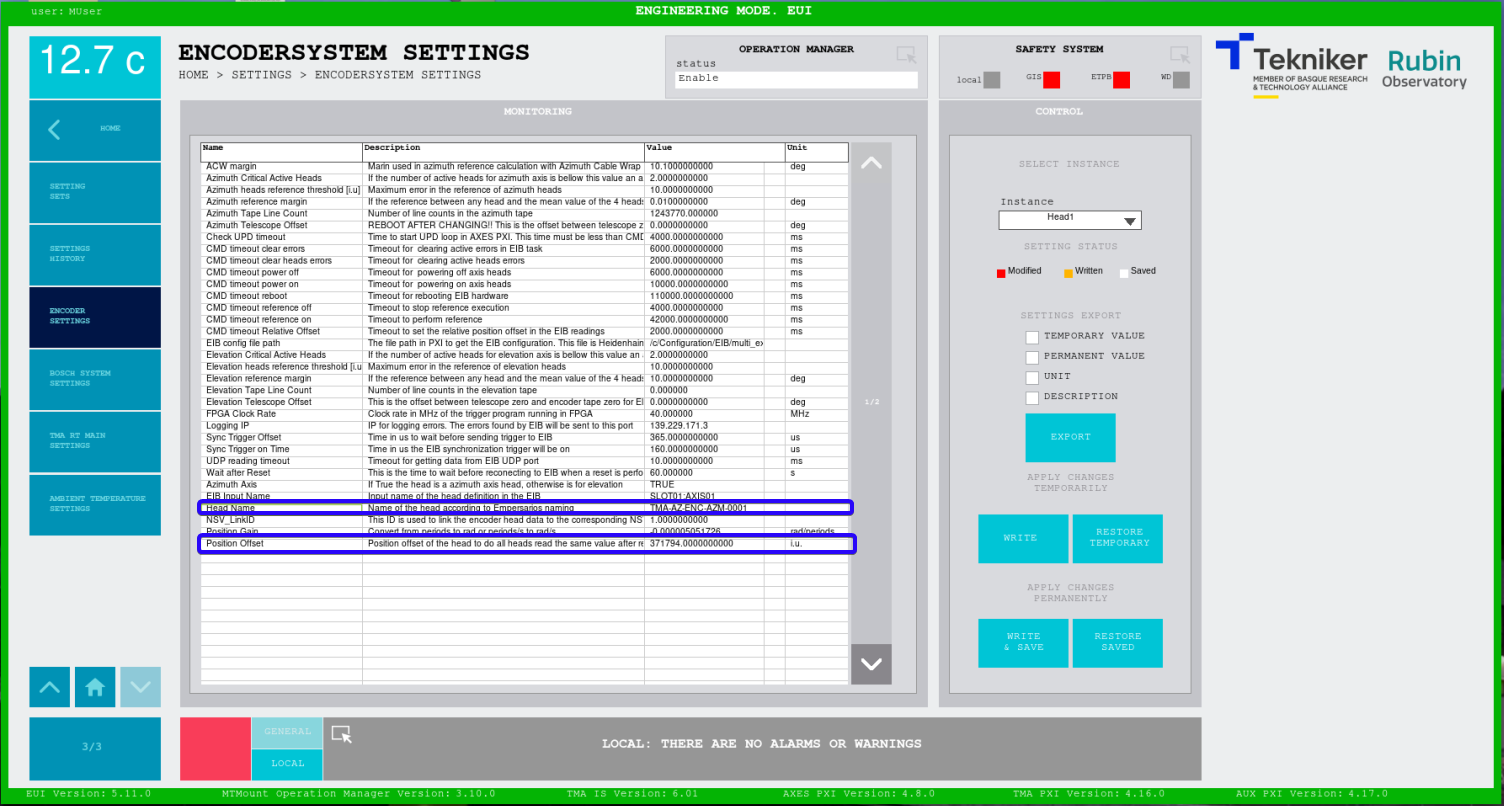
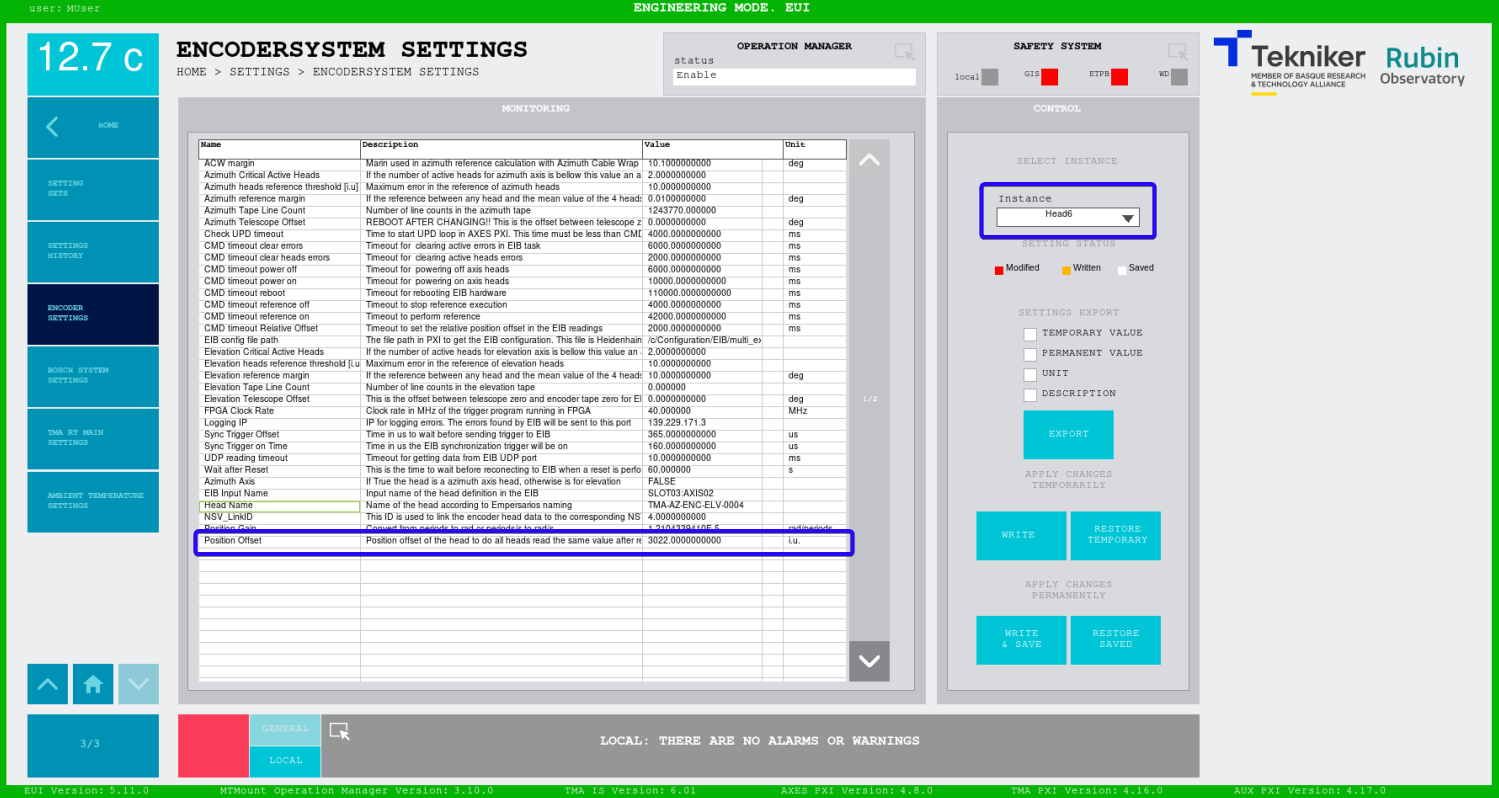
Complete the documentation

diff --git a/README.md b/README.md
@@ -44,10 +44,17 @@ Running the application the window shown in next figure appears. This windows al
 
 ![Head Reference offset calculation tool](Figures/ReferenceOffsetToolMainWindow.png)
 
+In this document only the use of this document with the EUI is explained, and so that some elements of the tool windows are not mentioned.
+
+> **IMPORTANT**
+> The procedures in this document are only valid for change/modify one or two heads per axis
+>
+> If more heads must be changed/modified use this procedure several times or contact to Tekniker
+
 ### Azimuth heads offsets
 
-> **NOTE**
-> THIS PROCEDURE IS VALID IF THE CHANGE HEAD POSITION IS SMALL. THIS IS, THE HEAD SUPPORT IS NOT MODIFIED OR ITS POSITION IS NOT MODIFIED.
+> **WARNING**
+> THIS PROCEDURE IS VALID IF THE HEAD POSITION CHANGE IS SMALLER THAN 0.5 DEG. THIS IS, THE HEAD SUPPORT IS NOT MODIFIED OR ITS POSITION IS NOT MODIFIED.
 >
 
 When a head from azimuth axis is changed or relocated this procedure should be fulfilled. This procedure starts after the head is validated in the azimuth full range.
@@ -68,22 +75,78 @@ When a head from azimuth axis is changed or relocated this procedure should be f
 8. Copy the "read reference data" form the ENCODER SYSTEM window to the "Slave Reference"  in the tool for each head
 ![Azimuth reference data in the EUI](Figures/AzimuthReferenceEUI.png)
 ![Copy reference data in the tool](Figures/AzimuthReferenceTool.png)
-9. Select the Head 1 as master head. This makes that all the heads give an absolute position of 0 deg when the head 1 is located in the azimuth tape junction. In this situation the value of the "Correction Offset [i.u.]" is 0 for the Head 1 while it have a different value the other 3 heads.
+9. Power off the azimuth axis
+10. Select the Head 1 as master head. This makes that all heads give an absolute position of 0 deg when the head 1 is located in the azimuth tape junction. In this situation the value of the "Correction Offset [i.u.]" is 0 for the Head 1 while it have a different value the other 3 heads.
 ![Select master head](Figures/AzimuthSelectHead1AsReference.png)
-10. The desired absolute position is the one calculated in step 4. So insert the "Slave Absolute Corrected degrees" - step 4 calculated value in the "Additional offset"
-![Insert Aditional offset in the tool](Figures/AzimuthAditionalOffset.png)
-11. The "Correction offset [i.u.]" are the values that must be updated in the ENCODER SETTINGS window in the "Position Offset" setting. The name of the encoder head is located in the setting "Head Name". The azimuth encoders are named aas TAM-AZ-ENC-AZM and then the head number. So the Head 1 is the TMA-AZ-ENC-AZM-0001, the head 2 is the TMA-AZ-ENC-AZM-0002 and so on.
+11. The desired absolute position is the one calculated in step 4. So insert the "Slave Absolute Corrected degrees" - step 4 calculated value in the "Additional offset"
+![Insert Additional offset in the tool](Figures/AzimuthAditionalOffset.png)
+1.  The "Correction offset [i.u.]" are the values that must be updated in the ENCODER SETTINGS window in the "Position Offset" setting. The matching between head and head instance in the ENCODER SETTINGS is shown in next list. 
+    1.  Head 1 --> Instance Head1
+    2.  Head 2 --> Instance Head3
+    3.  Head 3 --> Instance Head5
+    4.  Head 4 --> Instance Head7
 ![Alt text](Figures/EncoderHeadsSettins.png)
-
+1. Power on azimuth axis and home axis. Check that the changes take effect and the system works properly. All the heads should read a similar absolute position (In previous test a difference bellow XXX in all range is recorded). The differences in the absolute position of each head varies along the telescope range, so the only position where the absolute position should be equal (the difference will be bellow 0.0003 deg) for all heads is in the position where the correction was applied.
+2. A star calibration is recommended to correct the Telescope offset
 
 ### Elevation heads offsets
 
+> **WARNING**
+> IF THE HEAD POSITION IS CHANGED MORE THAN 10 DEG SOME ADDITIONAL STEPS MAY BE PERFORMED.
+>
+> The software limits should be disabled if the change is big, because the absolute position calculated without when doing the home could be outside the allowed
+
+1. Power on the elevation axis.
+2. It is recommended to move the elevation axis to 45 degrees. This allow to have more "distance" to software limits.
+3. Home elevation axis
+4. open the ENCODER SYSTEM window in the EUI
+![Encoder Data From EUI](Figures/EncoderDataFromEUI.png)
+1. Take the absolute position of the heads that were **not modified** and calculate the mean value. Note down this value since this will be the absolute value we want to set.
+![Elevation Absolute Position](Figures/ElevationAbsolutePosition.png)
+1. Open the Head Reference Calculation Tool for the Elevation axis
+![Azimuth Head Reference offset for azimuth axis](Figures/ElevationHeadReferenceOffsetTool.png)
+1. Ensure that the "Relative in iu?" checkbox is unchecked.
+![Unchek the relative in iu? control](<Figures/ElevationRelativeInIu Unchecked.png>)
+1. Copy the "relative position" from the ENCODER SYSTEM window to the  "Slave relative deg" in the tool for each head
+![Azimuth relative position in the EUI](Figures/ElevationRelativePositonEUI.png)
+![Copy relative position in the Tool](Figures/ElevationRelativePositionsTool.png)
+1. Copy the "read reference data" form the ENCODER SYSTEM window to the "Slave Reference"  in the tool for each head
+![Azimuth reference data in the EUI](Figures/ElevationReferenceEUI.png)
+![Copy reference data in the tool](Figures/ElevationReferenceTool.png)
+1. Power off the elevation axis
+2. Select the Head 1 as master head for cradle X+. This makes that Head 1 and Head 3 read and absolute position of 0 deg when the head 1 is located in the beginning of the the tape of cradle X+. Then select Head 2 as master head for cradle X-. This makes that head 2 and Head 4 read and absolute position of 0 at the end of the tape of cradle X-. Cradle X- tape makes to read in opposite sense of cradle X+ tape, so the end of the tape in cradle X- is in the same position as cradle X+ tape beginning position. In this situation the value of the "Correction Offset [i.u.]" is 0 for the Head 1, 200000 for Head 2 and different value for Head 3 and 4. The "Slave Absolute Corrected degrees" for all the head should be very similar. In the Tekniker adjustment it was bellow 0.1 deg and the main difference was between heads of each cradle.
+![Select master head](Figures/AzimuthSelectHead1AsReference.png)
+1. To reduce the difference between reading values of heads of different cradles the "Additional Offset (deg)for cradle X-" can be adjusted. This adjustment was skipped in Tekniker's first adjustment.
+![Cradle X- offset](Figures/CradleXminusAditionalOffset.png)
+2. The desired absolute position is the one calculated in step 4. So insert the "Slave Absolute Corrected degrees" - step 4 calculated value in the "Additional offset"
+![Insert Additional offset in the tool](Figures/ElevationAditionalOffset.png)
+1. The "Correction offset [i.u.]" are the values that must be updated in the ENCODER SETTINGS window in the "Position Offset" setting. The matching between head and head instance in the ENCODER SETTINGS is shown in next list.
+    1. Head 1 --> Instance Head2
+    2. Head 2 --> Instance Head4
+    3. Head 3 --> Instance Head6
+    4. Head 4 --> Instance Head8
+![Encoder settings for correction offsets](Figures/EncoderHeadsSettins.png)
+1. Power on elevation axis and home axis. Check that the changes take effect and the system works properly. All the heads should read a similar absolute position (In previous test a difference bellow XXX in all range is recorded). The differences in the absolute position of each head varies along the telescope range, so the only position where the absolute position should be equal (the difference will be bellow the one left in step 12) for all heads is in the position where the correction was applied.
+2. A star calibration is recommended to correct the Telescope offset
+
 ## Telescope offset
+
+For each axis there is a setting that allow to correct the absolute position of the telescope. This setting are shown in any instance of ENCODER SETTINGS, but there is only one setting for all heads. So, changing the value in one of the instances will change for all "instances" (this setting belongs to subsystem itself, so to all instances, due to this particularity the settings that belongs to the subsystem are shown in all instances in HMI)
+
+For azimuth axis, the setting is called "Azimuth Telescope Offset".
+
+
+> **DANGER**
+>
+> **REBOOT THE TMA PXI AFTER CHANGING THE "AZIMUTH TELESCOPE OFFSET" AND BEFORE SWITCHING ON THE AZIMUTH AXIS AGAIN**
+>
+> This applies to azimuth axis and to azimuth cable wrap. If the TMA-PXI is not rebooted damages in the Azimuth cable wrap could happen.
+>
+
+For elevation axis, the setting si called "Elevation Telescope Offset".
+
+![Telescope offset settings](Figures/TelescopeOffsets.png)
 
 ### Azimuth Cable Wrap
 
-
-
-
-
-
+The azimuth cable wrap follows the azimuth position, so the change of the azimuth absolute position with the "Azimuth Telescope Offset" affects to the gap between azimuth and azimuth cable wrap. This is issue is managed by the azimuth cable wrap software and the azimuth cable wrap command position will be adapted to the "Azimuth Telescope Offset" setting, but it needs a **reboot of the TMA PXI**.
